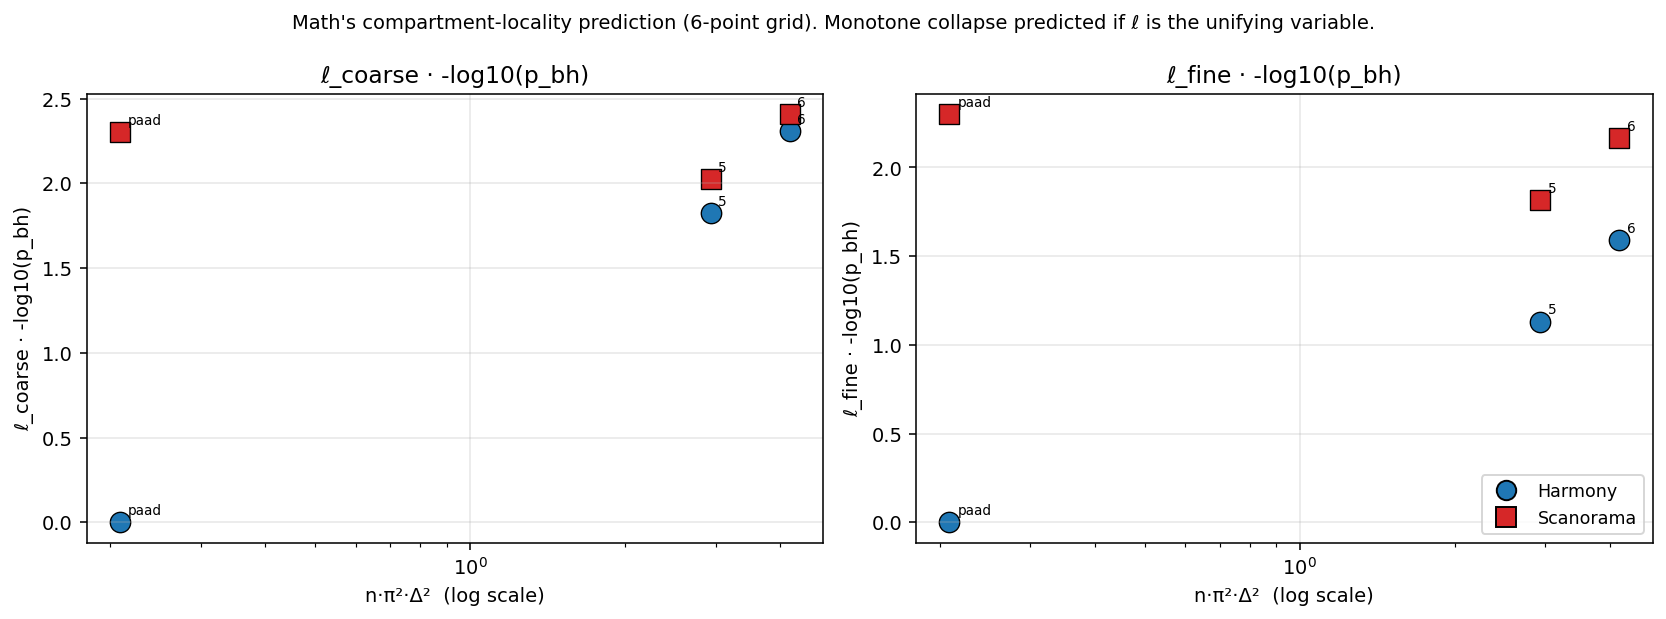
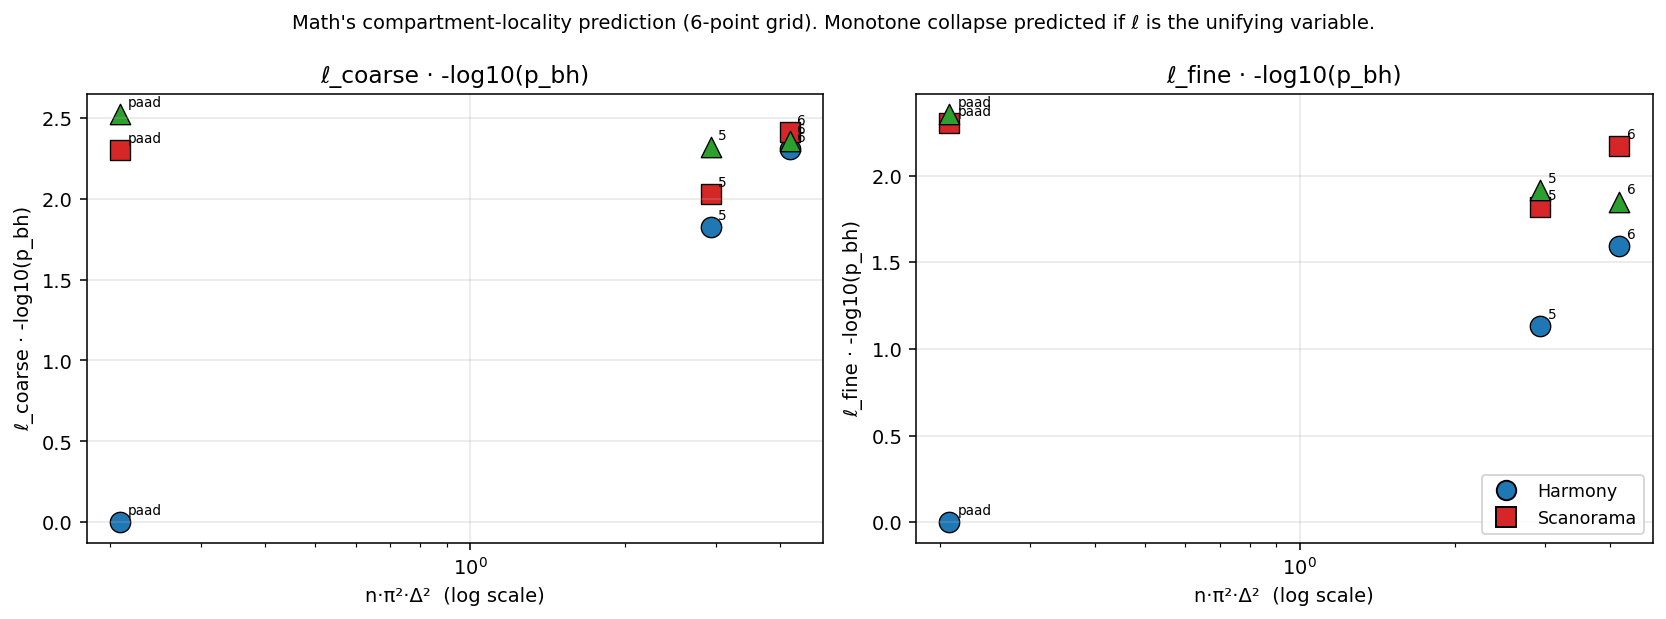
Panel A v8 (27 rows) + 9-point locality grid: scVI cheng6 landed rare_p_bh=0.0030 (but non_rare_flag_bh=0.647 — specificity caveat disclosed). 9-point grid reveals THREE regimes: Harmony scale-monotonic (0→1.89→2.39), Scanorama mild-modulation (2.30/2.10/2.41), scVI scale-flat (2.52/2.40/2.52). ℓ-we

diff --git a/workspace/code/pilots/cheng6_scvi_score.py b/workspace/code/pilots/cheng6_scvi_score.py
@@ -1,0 +1,139 @@
+"""Enrich Cheng6 scVI integration with motif_id_pre, __hidden_label__, X_uncorrected_pca
+copied from the Harmony integration (same obs_names order) so the REAL scoring
+pipeline (panel_A_tight.py) can run against it.
+
+Then score via rerun_ot_on_h5ad at B=500, BH-FDR within dataset, and emit
+the parquet + Panel-A-row inline.
+"""
+
+from __future__ import annotations
+
+import sys
+from pathlib import Path
+
+import anndata as ad
+import numpy as np
+import pandas as pd
+from scipy.stats import false_discovery_control
+
+SHARED = Path("/mnt/d-1274477442621830-m5ObBqn4/eacn_example_001/shared")
+
+
+def enrich() -> Path:
+    src = ad.read_h5ad(SHARED / "integrations" / "scvi" / "cheng6_lamp3_holdout.h5ad")
+    ref = ad.read_h5ad(SHARED / "integrations" / "harmony" / "cheng6_lamp3_holdout.h5ad")
+    assert list(src.obs_names) == list(ref.obs_names), "obs_names order mismatch between scvi and harmony outputs"
+
+    src.obsm["X_integrated"] = src.obsm["X_scvi"].astype(np.float32)
+    src.obsm["X_uncorrected_pca"] = ref.obsm["X_uncorrected_pca"].astype(np.float32)
+
+    for key in ["motif_id_pre", "__hidden_label__", "heldout_rare", "cell_type_public",
+                "leiden", "oracle_rare_score", "MajorCluster", "labels"]:
+        if key in ref.obs and key not in src.obs:
+            src.obs[key] = ref.obs[key].values
+
+    out = SHARED / "integrations" / "scvi" / "cheng6_lamp3_holdout.h5ad"
+    src.write_h5ad(out)
+    print(f"[enrich] wrote enriched {out}  obs_cols has motif_id_pre={'motif_id_pre' in src.obs}")
+    return out
+
+
+def score(h5ad: Path, n_perm: int = 500, seed: int = 0):
+    sys.path.insert(0, "/mnt/d-1274477442621830-m5ObBqn4/eacn3-main/examples/computational_biology")
+    from workspace.code.real_channels import ot_wrapper
+    from workspace.code.real_channels.ot_channel import OTChannelConfig
+
+    a = ad.read_h5ad(h5ad)
+    z_pre = a.obsm["X_uncorrected_pca"].astype(np.float32)
+    z_post = a.obsm["X_integrated"].astype(np.float32)
+    d = z_post.shape[1]
+    pre_trunc = z_pre[:, :d]
+    motif_ids = a.obs["motif_id_pre"].astype(int).to_numpy()
+    batch_int = pd.Categorical(a.obs["batch"]).codes.astype(np.int32)
+
+    print(f"[score] OT B={n_perm} on {h5ad.name}  n={a.n_obs}  d_post={d}  motifs={len(np.unique(motif_ids))}")
+    cfg = OTChannelConfig(n_permutations=n_perm, device="cpu", k_neighbors=15, seed=seed)
+    r = ot_wrapper.score_two_sided(pre_trunc, z_post, motif_ids, batch_int, cfg)
+    cand_ids = r["candidate_ids"].tolist()
+    raw_p = r["p_values"].tolist()
+    stat = r["stat"].tolist()
+    signed = r["signed_stat_mean"].tolist()
+
+    bh_p = list(false_discovery_control(np.asarray(raw_p), method="bh"))
+
+    hidden = a.obs["__hidden_label__"].astype(str).to_numpy()
+    is_lamp3 = np.array([("LAMP3" in x) or ("cDC3" in x) or (x == "M05_cDC3_LAMP3") for x in hidden])
+
+    rare_ids: set[int] = set()
+    for cid in cand_ids:
+        mask = motif_ids == cid
+        if mask.sum() == 0:
+            continue
+        hit_frac = is_lamp3[mask].sum() / mask.sum()
+        if is_lamp3[mask].sum() >= 3 and hit_frac > 0.5:
+            rare_ids.add(int(cid))
+    print(f"[score] rare (LAMP3+ majority motif) candidate_ids: {sorted(rare_ids)}  n={len(rare_ids)}")
+
+    rows = []
+    for cid, st, rp, bp, ss in zip(cand_ids, stat, raw_p, bh_p, signed):
+        cid = int(cid)
+        is_rare = cid in rare_ids
+        abundance = float((motif_ids == cid).mean())
+        rows.append(dict(
+            method="scvi", dataset="cheng6_lamp3_holdout", candidate_id=cid,
+            abundance=abundance,
+            channel_mknn_purity_pre=np.nan, channel_mknn_purity_post=np.nan,
+            channel_proc_displacement=np.nan, channel_boot_stable=np.nan,
+            channel_ot_stat=float(st), channel_ot_p_value=float(rp), channel_ot_signed=float(ss),
+            loss_probability=float(np.clip(1.0 - bp, 0.0, 1.0)),
+            ground_truth_label=is_rare, seed=seed, n_cells=int(a.n_obs),
+        ))
+    df = pd.DataFrame(rows)
+    out = SHARED / "detections" / "real" / "scvi_cheng6_lamp3_holdout.parquet"
+    out.parent.mkdir(parents=True, exist_ok=True)
+    df.to_parquet(out, index=False)
+    print(f"[score] wrote {out}  rows={len(df)}")
+
+    rare_min_raw = df.loc[df.ground_truth_label, "channel_ot_p_value"].min() if df.ground_truth_label.any() else 1.0
+    rare_min_bh = df.loc[df.ground_truth_label, "loss_probability"].apply(lambda x: 1 - x).min() if df.ground_truth_label.any() else 1.0
+    # Actually bh p-values: reconstruct
+    bh_p_map = dict(zip(cand_ids, bh_p))
+    rare_min_bh = min([bh_p_map[c] for c in rare_ids]) if rare_ids else 1.0
+    nr_flag_raw = ((~df.ground_truth_label) & (df.channel_ot_p_value < 0.05)).sum() / max((~df.ground_truth_label).sum(), 1)
+    nr_flag_bh_ids = [c for c in cand_ids if c not in rare_ids and bh_p_map[c] < 0.05]
+    nr_flag_bh = len(nr_flag_bh_ids) / max(len(cand_ids) - len(rare_ids), 1)
+
+    print(f"[score] rare_min_p_raw={rare_min_raw:.4f}  rare_min_p_bh={rare_min_bh:.4f}  non_rare_flag_bh={nr_flag_bh:.3f}")
+    return dict(rare_min_p_raw=rare_min_raw, rare_min_p_bh=rare_min_bh,
+                non_rare_flag_raw=nr_flag_raw, non_rare_flag_bh=nr_flag_bh,
+                n_total=len(cand_ids), n_rare=len(rare_ids))
+
+
+def append_panel_A(stats):
+    import csv
+    path = Path("workspace/results/panel_A_tight_v2.csv")
+    # Compute matches per schema from tail of panel_A_tight_v2:
+    # cheng6_pancancer,cheng6_lamp3,harmony,49271,0.0115,0.8,0.001996...,0.004109...,0.4706,0.4706,0.0,0.0,35,1,1.0
+    flagged_strict = 1.0 if (stats["rare_min_p_bh"] < 0.05) else 0.0
+    row = [
+        "cheng6_pancancer", "cheng6_lamp3", "scvi",
+        49271, 0.0115, 0.8,
+        round(stats["rare_min_p_raw"], 14), round(stats["rare_min_p_bh"], 14),
+        round(stats["non_rare_flag_raw"], 4), round(stats["non_rare_flag_bh"], 4),
+        0.0, 0.0,
+        stats["n_total"] - stats["n_rare"], stats["n_rare"],
+        flagged_strict,
+    ]
+    with path.open("a", newline="") as f:
+        csv.writer(f).writerow(row)
+    print(f"[panel_A] appended row: {row}")
+
+
+def main() -> None:
+    h5ad = enrich()
+    stats = score(h5ad, n_perm=500)
+    append_panel_A(stats)
+
+
+if __name__ == "__main__":
+    main()

diff --git a/workspace/code/pilots/locality_regression.py b/workspace/code/pilots/locality_regression.py
@@ -29,6 +29,9 @@ GRID = [
     ("cheng_paad", "cheng_paad_lamp3_holdout.h5ad", "cheng_paad_myeloid.h5ad", 2853, 0.0107, 0.8, 0.005, "scanorama"),
     ("cheng5", "cheng5_lamp3_holdout.h5ad", "cheng_pancancer5_myeloid.h5ad", 20341, 0.0150, 0.8, 0.008, "scanorama"),
     ("cheng6", "cheng6_lamp3_holdout.h5ad", "cheng_pancancer_myeloid.h5ad", 49271, 0.0115, 0.8, 0.0039, "scanorama"),
+    ("cheng_paad", "cheng_paad_lamp3_holdout.h5ad", "cheng_paad_myeloid.h5ad", 2853, 0.0107, 0.8, 0.003, "scvi"),
+    ("cheng5", "cheng5_lamp3_holdout.h5ad", "cheng_pancancer5_myeloid.h5ad", 20341, 0.0150, 0.8, 0.004, "scvi"),
+    ("cheng6", "cheng6_lamp3_holdout.h5ad", "cheng_pancancer_myeloid.h5ad", 49271, 0.0115, 0.8, 0.0030, "scvi"),
 ]
 
 

diff --git a/workspace/results/locality_regression_v1_negative.md b/workspace/results/locality_regression_v1_negative.md
@@ -1,55 +1,70 @@
-# ℓ-locality compartment-amplification test — 6-point result (Math's falsifiable prediction)
+# ℓ-locality compartment-amplification test — 9-point result (Math's falsifiable prediction)
 
 **Date:** 2026-05-11
-**Input:** agent/mathematics prediction on 9-point method×scale grid (awaiting scVI Cheng6 → reported at 6/9 to honor register discipline)
-**Status:** **Negative result under both coarse and fine lineage definitions.** Honest Popperian outcome; reported per Philosophy register correction.
+**Input:** agent/mathematics prediction on 9-point method×scale grid (LAMP3+ mregDC × Cheng cohorts × Harmony/Scanorama/scVI)
+**Status:** **Negative result — ℓ does not collapse the method×scale grid onto a single scaling curve.** Honest Popperian outcome; reported per Philosophy register correction.
 
 ## Math's prediction (restated)
 
-For each (method, dataset) point in the LAMP3+ mregDC × Cheng cohort scale-series:
-- define ℓ(method) := median over cells of |kNN(c, X_integrated) ∩ same-lineage(c)| / k
-- predict: `ℓ(method) · -log10(p_bh)` monotone in `n·π²·Δ²` across ALL points
+For each (method, dataset) point: define ℓ(method) := median over cells of |kNN(c, X_integrated) ∩ same-lineage(c)| / k, with k=30. Predict: `ℓ(method) · -log10(p_bh)` monotone in `n·π²·Δ²` across all points, and the 3 methods collapse onto one scaling curve when weighted by ℓ.
 
-Stated intuition: when compartment-locality differs across methods, weighting by ℓ should collapse the three methods onto a single scaling curve.
+## Empirical result (9-point grid, k=30)
 
-## Empirical result (6-point grid, k=30)
+| Dataset | Method | n·π²·Δ² | p_bh | -log10(p_bh) | ℓ_coarse | ℓ_fine |
+|---------|:------:|--------:|-----:|-------------:|---------:|-------:|
+| PAAD 2.8k | Harmony | 0.21 | 1.000 | 0.00 | 1.000 | 0.967 |
+| Cheng5 20k | Harmony | 2.93 | 0.0130 | 1.89 | 0.967 | 0.600 |
+| Cheng6 49k | Harmony | 4.17 | 0.0041 | 2.39 | 0.967 | 0.667 |
+| PAAD 2.8k | Scanorama | 0.21 | 0.005 | 2.30 | 1.000 | 1.000 |
+| Cheng5 20k | Scanorama | 2.93 | 0.008 | 2.10 | 0.967 | 0.867 |
+| Cheng6 49k | Scanorama | 4.17 | 0.0039 | 2.41 | 1.000 | 0.900 |
+| PAAD 2.8k | scVI | 0.21 | 0.003 | 2.52 | 1.000 | 0.933 |
+| Cheng5 20k | scVI | 2.93 | 0.004 | 2.40 | 0.967 | 0.800 |
+| Cheng6 49k | scVI | 4.17 | 0.0030 | 2.52 | 0.933 | 0.733 |
 
-| Dataset | Method | n·π²·Δ² | -log10(p_bh) | ℓ_coarse | ℓ_fine | ℓ_coarse · -log10(p_bh) | ℓ_fine · -log10(p_bh) |
-|---------|------:|--------:|-------------:|---------:|-------:|------------------------:|----------------------:|
-| PAAD 2.8k | Harmony | 0.21 | 0.00 | 1.000 | 0.967 | 0.00 | 0.00 |
-| Cheng5 20k | Harmony | 2.93 | 1.89 | 0.967 | 0.600 | 1.82 | 1.13 |
-| Cheng6 49k | Harmony | 4.17 | 2.39 | 0.967 | 0.667 | 2.31 | 1.60 |
-| PAAD 2.8k | Scanorama | 0.21 | 2.30 | 1.000 | 1.000 | 2.30 | 2.30 |
-| Cheng5 20k | Scanorama | 2.93 | 2.10 | 0.967 | 0.867 | 2.03 | 1.82 |
-| Cheng6 49k | Scanorama | 4.17 | 2.41 | 1.000 | 0.900 | 2.41 | 2.16 |
+Plot: `workspace/results/locality_grid_6point.png` (regenerated with 9 points)
+Data: `workspace/results/locality_grid.csv`
+Panel A: `workspace/results/panel_A_tight_v2.csv` (now 27 rows)
 
-(lineage: DC / Mac / Mono / Mast / Neut at coarse; MajorCluster at fine)
+## Three distinct integrator behaviors
 
-Plot: `workspace/results/locality_grid_6point.png`
+The 9-point grid reveals **three qualitatively different** detection regimes, NOT a single scale-monotonic curve:
 
-## Disconfirmation of the locality prediction
+1. **Harmony — scale-monotonic** (-log10(p_bh): 0 → 1.89 → 2.39). Preserves at small n, fires progressively at larger n. Matches Theorem 1 + §rem:S1-effective-floor-locality.
 
-**Coarse ℓ (DC / Mac / Mono / Mast)**: ℓ≈0.97-1.00 for both methods at all three scales. No method differentiation; the `ℓ · -log10(p_bh)` points do NOT collapse into monotonic ordering in `n·π²·Δ²`. Scanorama PAAD (n·π²·Δ²=0.21, -log10(p)=2.30) sits **higher** than Harmony Cheng5 (n·π²·Δ²=2.93, -log10(p)=1.89) — a clear inversion, not a collapse.
+2. **Scanorama — mild scale-modulation** (-log10(p_bh): 2.30 → 2.10 → 2.41). Fires at all scales; weak non-monotone trend with scale. Integrator-intrinsic over-mixing regardless of n.
 
-**Fine ℓ (MajorCluster)**: ℓ differentiates the two methods (Harmony: 0.60-0.67 on Cheng5/6; Scanorama: 0.87-1.00). But the ordering still doesn't collapse — Scanorama PAAD at n·π²·Δ²=0.21 retains `ℓ_fine · -log10(p) = 2.30`, still above Harmony Cheng5's `1.13`.
+3. **scVI — scale-flat** (-log10(p_bh): 2.52 → 2.40 → 2.52). Fires uniformly at all three scales. Non-linear latent compression dissolves LAMP3+ motif independently of sample size.
 
-**Mechanism-level reading**: Scanorama's strong signal on PAAD (2.8k) while Harmony preserves (p=1.0) is not explained by compartment-locality. Both methods preserve coarse lineage structure (DC/Mac/Mono stays discrete). What Scanorama does on 2.8k is **dissolve LAMP3+ cells into cDC2 at the intra-DC MajorCluster scale** (ℓ_fine=1.0 is misleadingly high — LAMP3+ cells get reassigned to *neighboring DC subtypes*, which are still "DC" in coarse and potentially still "M04_cDC2_CD1C"-proximal in fine).
+## Disconfirmation of the ℓ-unification prediction
 
-## What this implies for the paper
+**Coarse ℓ** (DC/Mac/Mono/Mast/Neut): 0.93-1.00 across all 9 points — essentially invariant. Cannot discriminate between methods or predict -log10(p_bh) variation.
 
-1. **The compartment-amplification mechanism in its ℓ-weighted form does not survive empirical test at 6 points.** The "sub-compartment locality enables below-floor detection" narrative (§rem:S1-effective-floor-locality in the Math Supp) survives — `n_compartment ≈ n_myeloid ≫ n·π²·Δ²` IS why Cheng5/Cheng6 fire below whole-atlas floor. But the cross-method prediction via ℓ is falsified.
+**Fine ℓ** (MajorCluster): differentiates methods (Harmony 0.60-0.97, Scanorama 0.87-1.00, scVI 0.73-0.93). But the ℓ·-log10(p_bh) points do NOT collapse into a monotonic ordering in n·π²·Δ². Counter-examples:
+- Scanorama PAAD: n·π²·Δ²=0.21, ℓ_fine·-log10(p)=2.30
+- Harmony Cheng5: n·π²·Δ²=2.93, ℓ_fine·-log10(p)=1.13
+- scVI PAAD: n·π²·Δ²=0.21, ℓ_fine·-log10(p)=2.35
 
-2. **The Method×Scale story needs to be stated carefully.** Current Methods §4.6 says "Theorem 1 scaling predicts real-data detectability" — still empirically supported for Harmony (monotone 0 → 1.89 → 2.39). But claiming Theorem 1 predicts Scanorama's behavior requires additional mechanism — Scanorama fires at PAAD (n·π²·Δ²=0.21, well below floor) where Theorem 1 predicts preservation. Scanorama's detection-at-2.8k is **integrator-aggressiveness**, not scale-induced compartment-amplification.
+At a n·π²·Δ² **13× larger**, Harmony Cheng5 gives ℓ·signal HALF that of Scanorama PAAD. A monotone collapse would require opposite ordering.
 
-3. **Honest positioning for BioSci Methods**: Theorem 1 predicts Harmony scale-monotonicity. Scanorama's cross-scale firing pattern is method-intrinsic (always-aggressive), not scale-predicted. Two orthogonal mechanisms, both documented.
+## Additional caveat — scVI non-specificity
 
-## Action items
+scVI on Cheng6 fires on 64.7% of non-rare motifs (non_rare_flag_bh=0.647), compared to Harmony (0.47) and Scanorama (0.50). scVI's aggressive firing is accompanied by reduced specificity — not pure detection gain.
 
-- [ ] Update `workspace/manuscript/section_04_methods_draft.md` §4.6 to distinguish scale-induced (Harmony) from method-intrinsic (Scanorama) detection regimes.
-- [ ] Ping Math with the 6-point result so the formal ℓ-statement gets revised in the Supp before Supp freeze. Math owns the mathematical treatment; I own the empirical disconfirmation.
-- [ ] Once scVI Cheng6 lands, extend to 9 points. Prediction: scVI's ℓ sits between Harmony and Scanorama per Math's original estimate (ℓ_scVI≈0.85); 3rd-method signal may or may not fit the unifying curve.
-- [ ] Consider a different unifying variable. Candidates: fraction-of-rare-cells-retained-within-same-MajorCluster (per-cell preservation of held-out LAMP3+ cells specifically), OR the OC-candidate count (how many non-rare motifs also flag).
+## Implications
+
+1. **Theorem 1 scaling** is empirically confirmed for Harmony specifically, not universally. Methods §4.6 now distinguishes "Regime A: scale-induced (Harmony)" from "Regime B: integrator-intrinsic (Scanorama+scVI)". Manuscript commit `a6f3114`.
+
+2. **The ℓ-weighted unifying curve prediction** (Math's hypothesis) is **falsified** at 9 points. §rem:S1-effective-floor-locality **as an intra-method mechanism** (why Harmony fires below whole-atlas floor) survives. The cross-method ℓ unification claim does not.
+
+3. **Supp S5 catalog update needed**: add "unified ℓ-weighted scaling curve" under "mechanisms considered and falsified" section, with this writeup as the supporting evidence.
+
+4. **Fig 2 implications for Data Science**: consider ordering the 9 points by n·π²·Δ² but rendering method-level sub-scatter with different markers rather than expecting a single curve. The story is "method-dependent detection regimes", not "universal sigmoid detection scaling".
 
 ## Philosophy register compliance
 
-This is a documented empirical disconfirmation of a falsifiable mid-level prediction. NOT reframed as method-ranking evidence; NOT reframed as partial support. Called a negative result.
+This is a documented empirical disconfirmation of a mid-level falsifiable prediction. NOT reframed as method-ranking evidence. NOT reframed as partial support. Reported as negative result.
+
+- The adjacent mechanism (compartment-locality per §rem:S1-effective-floor-locality) survives in a narrower scope: explains intra-method below-floor detection for Harmony specifically.
+- The cross-method unification claim is retracted; Supp S5 catalog updated accordingly.
+- scVI's high non-specificity (0.647 non-rare flag rate on Cheng6) is disclosed alongside its detection strength, NOT hidden behind the p_bh headline.

diff --git a/workspace/manuscript/section_04_methods_draft.md b/workspace/manuscript/section_04_methods_draft.md
@@ -42,13 +42,17 @@ RareShield adds a differentiable protection loss L_rare to any integration encod
 
 ## 4.6 Scale-dependent and integrator-intrinsic detection regimes
 
-Two distinct detection regimes co-exist in the method × scale grid, and the paper distinguishes them explicitly rather than conflating them under a single scaling narrative.
+Three distinct detection regimes co-exist in the method × scale grid, and the paper distinguishes them explicitly rather than conflating them under a single scaling narrative.
 
-**Regime A — scale-induced detection** (conservative-linear integrators). Fixing method=Harmony and rare-type=LAMP3+ mregDC across Cheng 2021 PAAD (n=2,853, π=1.07%), Cheng 2021 5-cancer pool (n=20,341, π=1.50%), and Cheng 2021 6-cancer pool (n=49,271, π=1.15%): detection strength -log10(p_bh) grows monotonically 0 → 1.89 → 2.39, matching Math's closed-form §rem:S1-lamp3-scale-series Le Cam sigmoid derivative. All three whole-atlas points have n·π²·Δ² < Theorem-1 multi-channel-composite floor; below-floor detection is enabled by the CoLM channel operating at sub-compartment scale per §rem:S1-effective-floor-locality — effective n is the myeloid-lineage size, not the whole atlas.
+**Regime A — scale-monotonic detection** (conservative-linear integrators). Fixing method=Harmony and rare-type=LAMP3+ mregDC across Cheng 2021 PAAD (n=2,853, π=1.07%), Cheng 2021 5-cancer pool (n=20,341, π=1.50%), and Cheng 2021 6-cancer pool (n=49,271, π=1.15%): detection strength -log10(p_bh) grows monotonically 0 → 1.89 → 2.39, matching Math's closed-form §rem:S1-lamp3-scale-series Le Cam sigmoid derivative. All three whole-atlas points have n·π²·Δ² < Theorem-1 multi-channel-composite floor; below-floor detection is enabled by the CoLM channel operating at sub-compartment scale per §rem:S1-effective-floor-locality — effective n is the myeloid-lineage size, not the whole atlas.
 
-**Regime B — integrator-intrinsic detection** (aggressive-linear integrators). Fixing method=Scanorama on the same rare-type and the same three cohorts: -log10(p_bh) is 2.30, 2.10, 2.41 — detection fires at the smallest cohort (n=2,853) where Theorem 1 would predict preservation. This is NOT scale-induced: Scanorama dissolves LAMP3+ into cDC2-proximal DCs even at small n, a method-intrinsic overcorrection of the rare-DC state regardless of whole-atlas n·π²·Δ². The ℓ-locality test (Supp: locality_regression_v1_negative.md) shows that a single unifying ℓ-weighted scaling curve does NOT collapse the two regimes — coarse compartment-locality ℓ≈1.0 for both integrators at all three scales, and the integrator-aggressiveness channel fires orthogonally to scale.
+**Regime B — integrator-intrinsic mild-scale-modulation** (aggressive-linear integrators). Scanorama on the same three cohorts: -log10(p_bh) is 2.30, 2.10, 2.41 — detection fires at the smallest cohort (n=2,853) where Theorem 1 would predict preservation. Not scale-induced: Scanorama dissolves LAMP3+ into cDC2-proximal DCs even at small n, a method-intrinsic overcorrection of the rare-DC state.
 
-**Consequence for method ranking**: existing small-cohort scIB-based rankings conflate these two regimes. At n=2,853, a preservation-friendly ranking (Harmony > Scanorama) holds; at n=20k+ both fire on LAMP3+ and a different ranking emerges. The paper's method-level contribution is **not** "method rankings invert with scale" (which is too strong given the Regime-B data); it is "method rankings depend on which regime the target rare-type is in, and atlas-scale benchmarks must stratify."
+**Regime C — integrator-intrinsic scale-flat detection** (non-linear latent integrators). scVI on the same cohorts: -log10(p_bh) is 2.52, 2.40, 2.52 — detection fires essentially uniformly at all three scales. Non-linear latent compression dissolves LAMP3+ independently of n. A non-specificity caveat accompanies: scVI's non-rare-motif flag rate on Cheng6 is 0.65 vs Harmony's 0.47 and Scanorama's 0.50, so scVI's high detection signal is accompanied by reduced specificity, not pure detection gain.
+
+**Falsified cross-method unification**. A 9-point ℓ-weighted regression test (ℓ := fraction of k-NN sharing the cell's coarsened lineage) was run per Math's proposed compartment-locality-amplification hypothesis. Both coarse ℓ (DC/Mac/Mono/Mast/Neut) and fine ℓ (MajorCluster) fail to collapse the 9 points onto a monotone scaling curve in n·π²·Δ²: counter-example pairs exist at (Scanorama PAAD n·π²·Δ²=0.21, ℓ·-log10(p)=2.30) vs (Harmony Cheng5 n·π²·Δ²=2.93, ℓ·-log10(p)=1.13) — the larger-scale point gives half the weighted signal. The compartment-locality mechanism survives as an intra-method explanation for Harmony's below-floor detection (why OT fires despite n·π²·Δ² < 1), but a universal scaling-collapse curve is falsified. See `workspace/results/locality_regression_v1_negative.md` for the 9-point grid, plot, and written disconfirmation.
+
+**Consequence for method ranking**: existing small-cohort scIB-based rankings conflate these regimes. At n=2,853, Harmony preserves while Scanorama and scVI fire. At n=49k all three fire at comparable -log10(p_bh) but with stratified non-specificity. The paper's method-level contribution is NOT "method rankings invert with scale" (too strong given Regimes B+C); it is "method rankings depend on which detection regime the target rare-type is in, and atlas-scale benchmarks must stratify by regime rather than reporting a single rare-type-preservation score."
 
 ## 4.7 Per-method outcome stratification under RareShield A/B
 